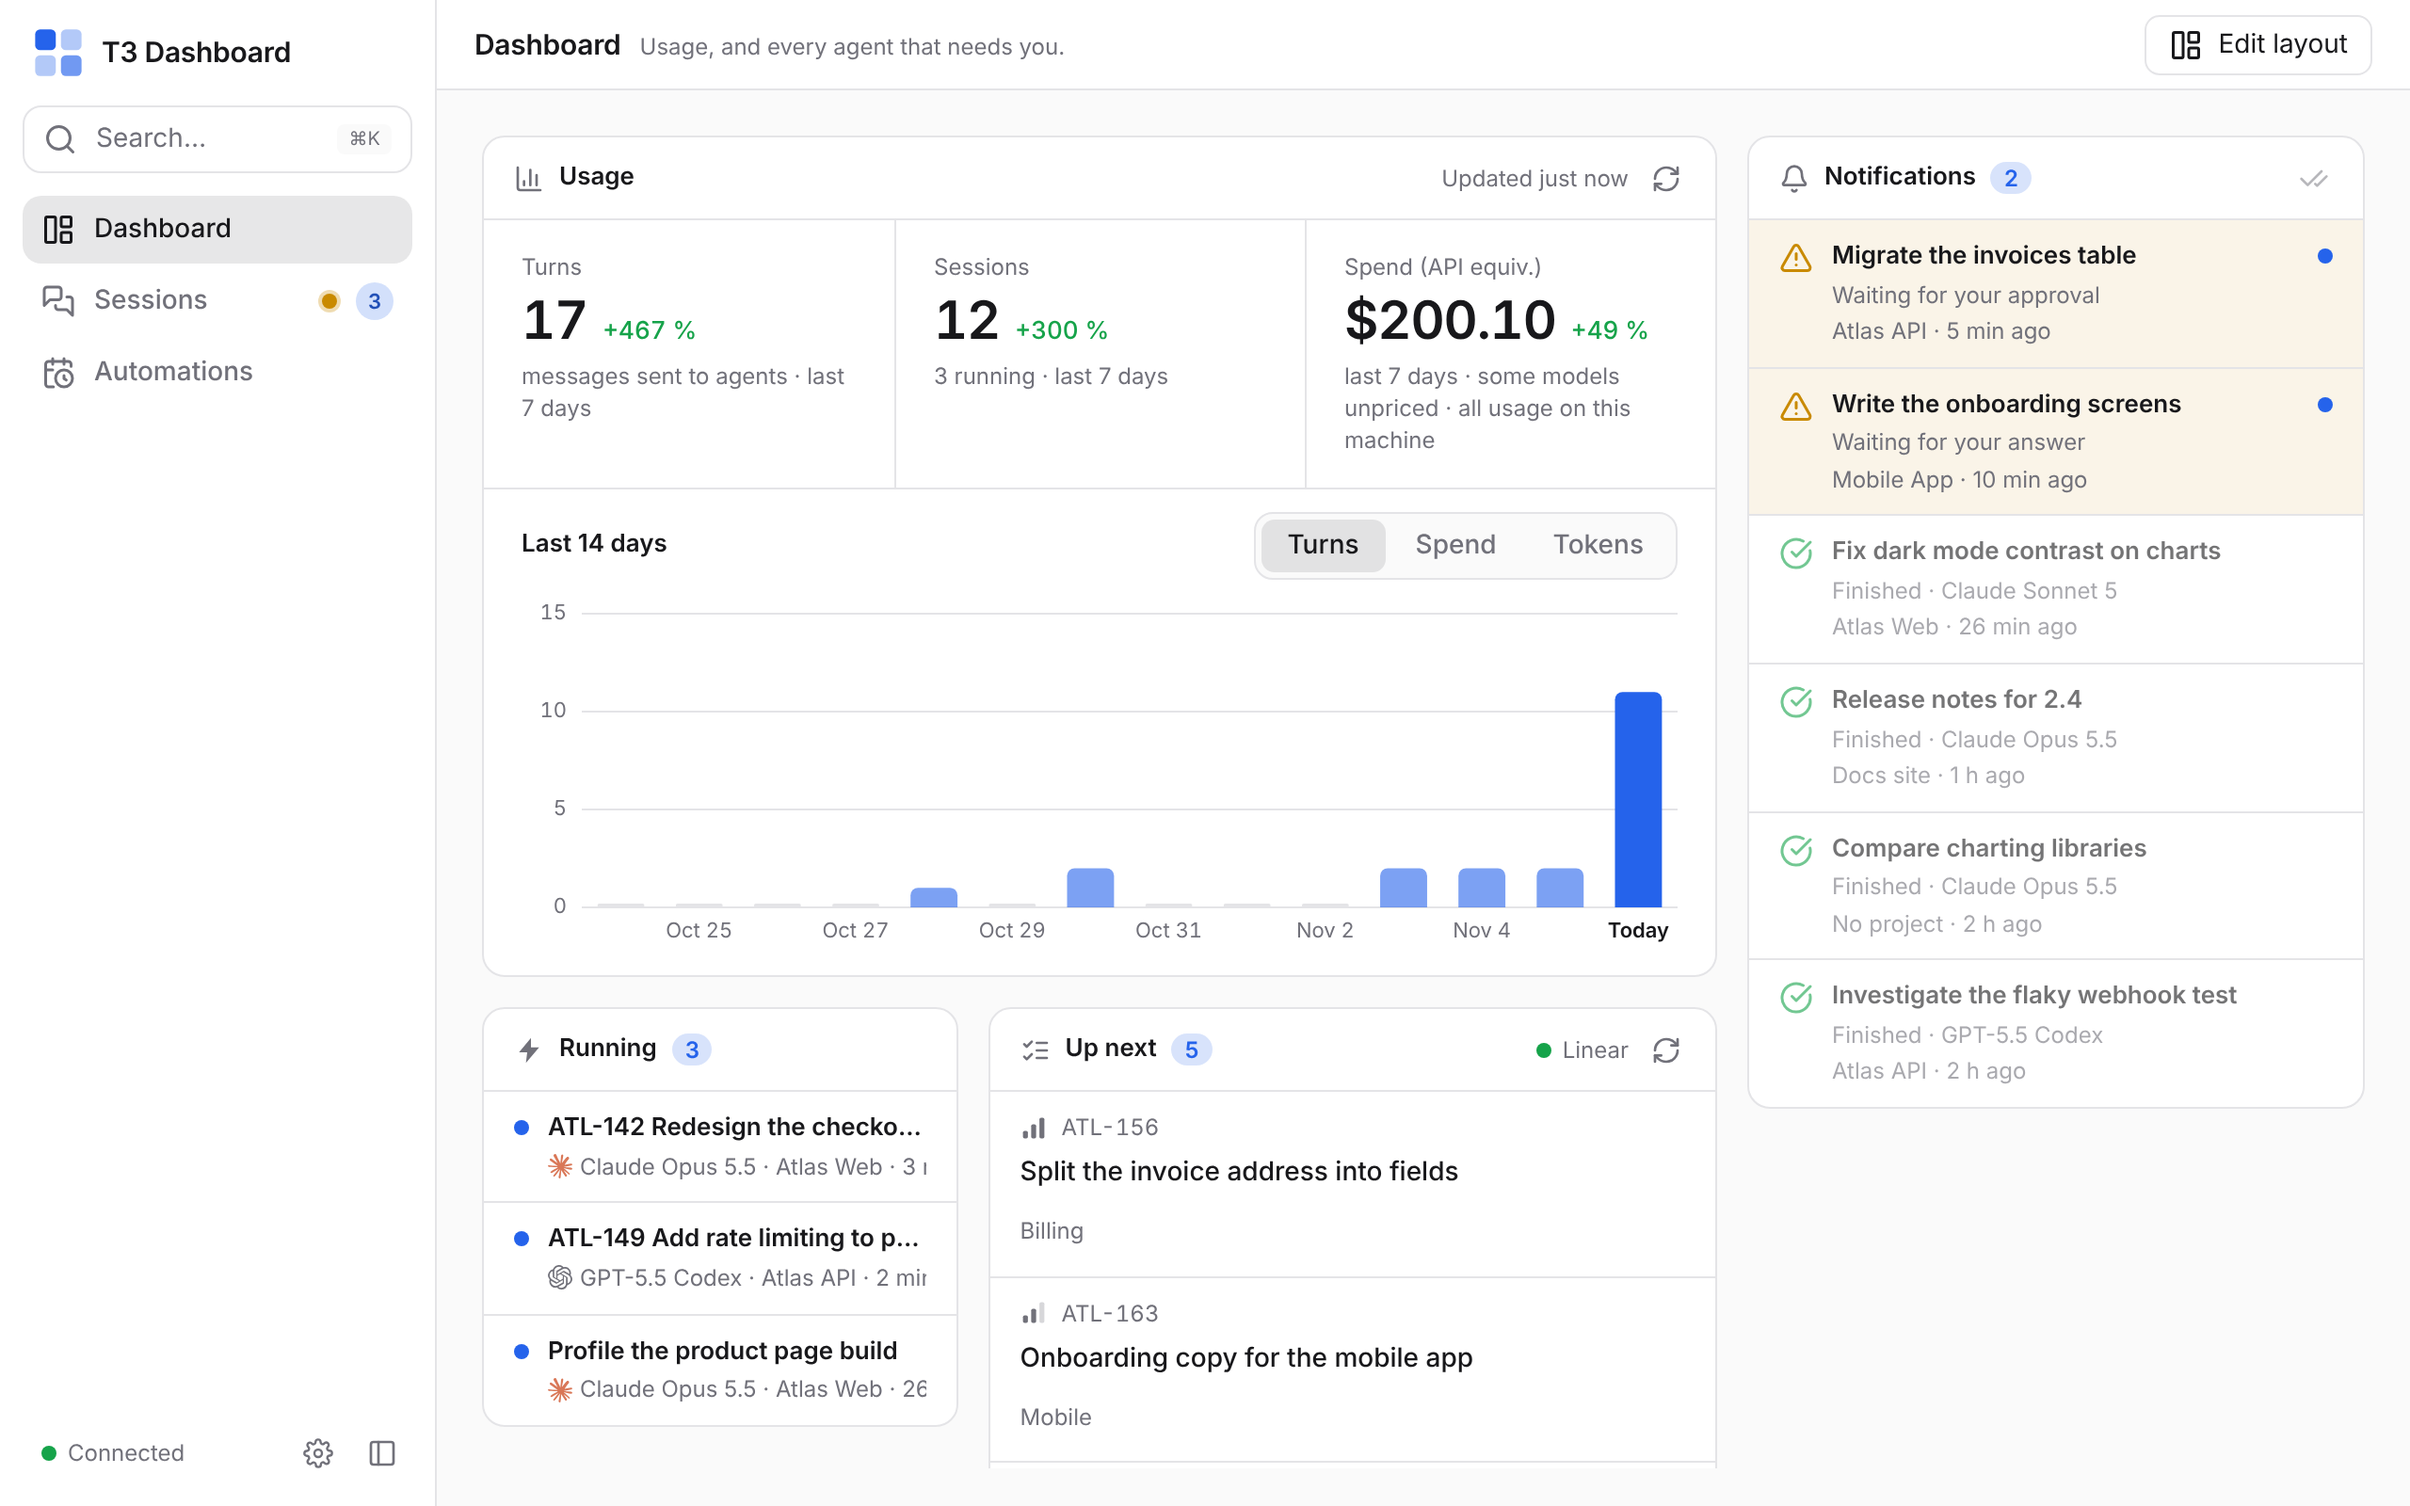
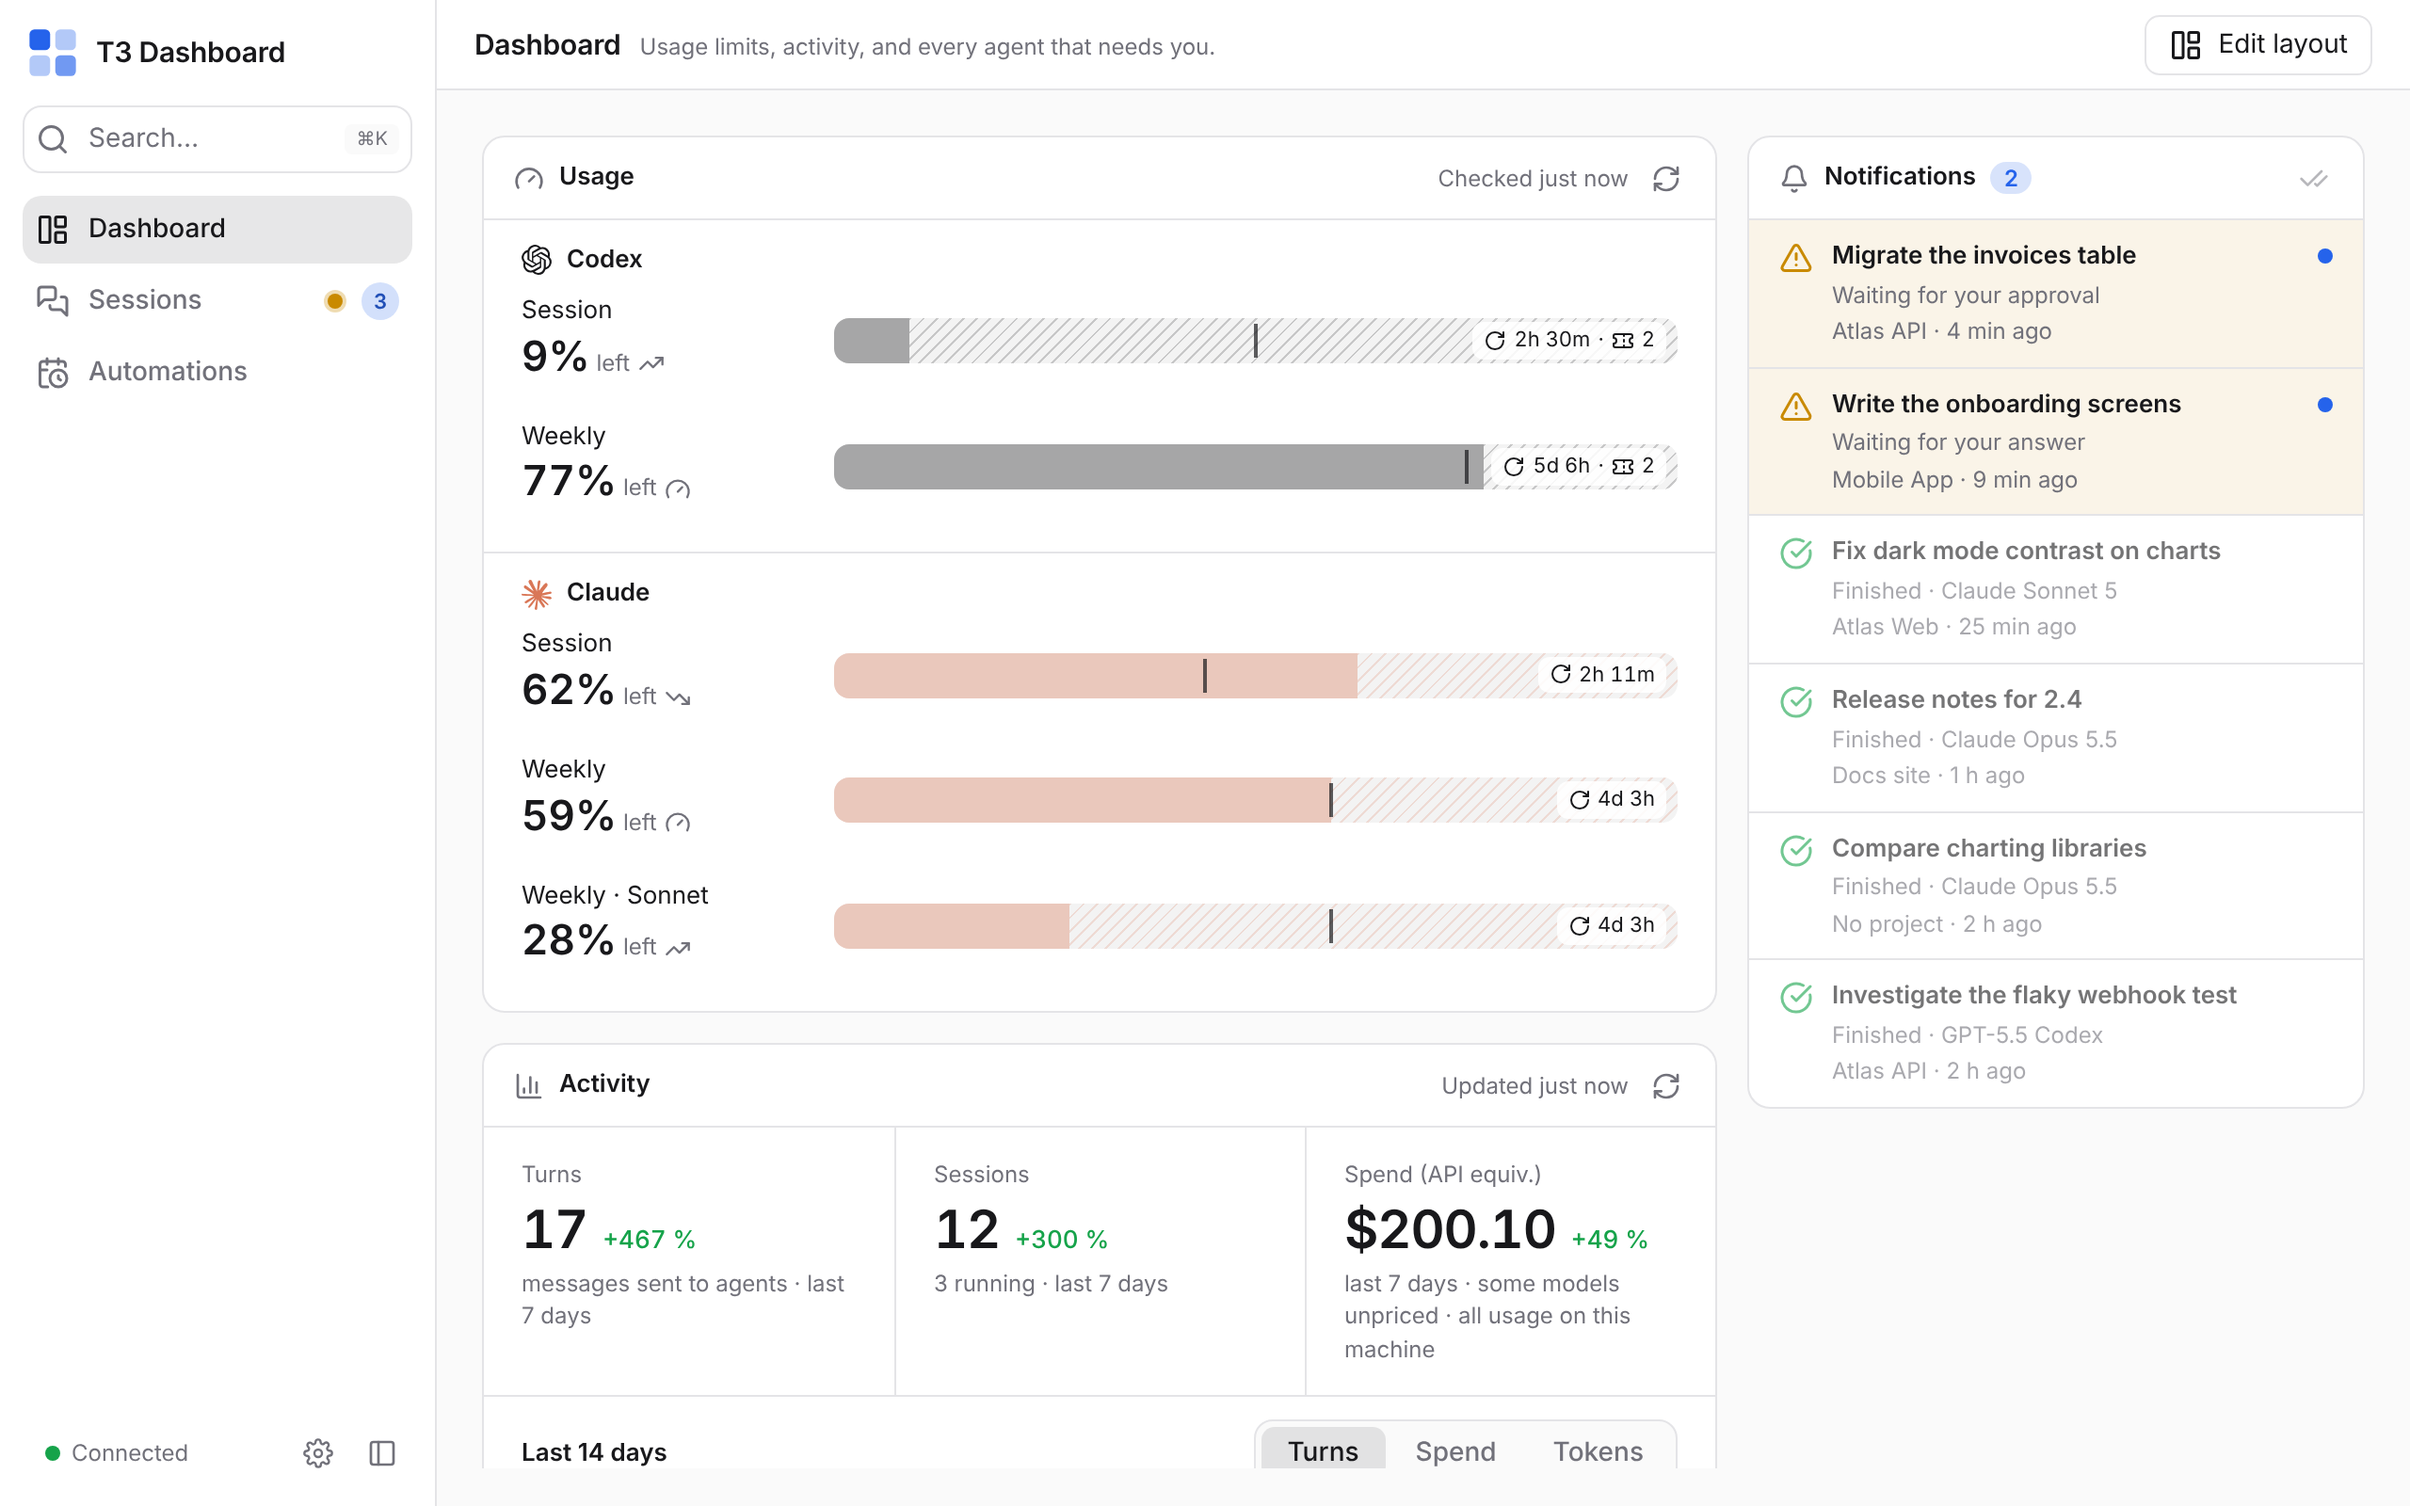
style(limits): tighter rows and a spaced chip; new Dashboard screenshots

diff --git a/web/src/styles.css b/web/src/styles.css
@@ -711,7 +711,7 @@ ol.install-steps { padding-left: 18px; }
 .limits-provider + .limits-provider { border-top: 1px solid var(--line); }
 .limits-provider-head { display: flex; align-items: center; gap: 8px; margin: 0; font-size: 13px; font-weight: 600; }
 .limits-provider-head .provider-icon { width: 16px; height: 16px; margin: 0; }
-.limits-row { display: grid; grid-template-columns: minmax(110px, 150px) minmax(0, 1fr); align-items: center; gap: 16px; padding: 8px 0; }
+.limits-row { display: grid; grid-template-columns: minmax(110px, 150px) minmax(0, 1fr); align-items: center; gap: 0 16px; padding: 8px 0; }
 .limits-label { min-width: 0; font-size: 13px; }
 .limits-left { grid-column: 1; color: var(--text-secondary); font-size: 12px; }
 .limits-left b { color: var(--text-primary); font-size: 22px; font-weight: 600; font-variant-numeric: tabular-nums; }

diff --git a/web/src/features/dashboard/UsageCard.tsx b/web/src/features/dashboard/UsageCard.tsx
@@ -33,7 +33,7 @@ function LimitRow({ window, credits, now }: { window: LimitWindow; credits: numb
                 {reset}
               </>
             )}
-            {reset !== null && credits > 0 && "·"}
+            {reset !== null && credits > 0 && <span>·</span>}
             {credits > 0 && (
               <>
                 <Icon name="ticket" />
